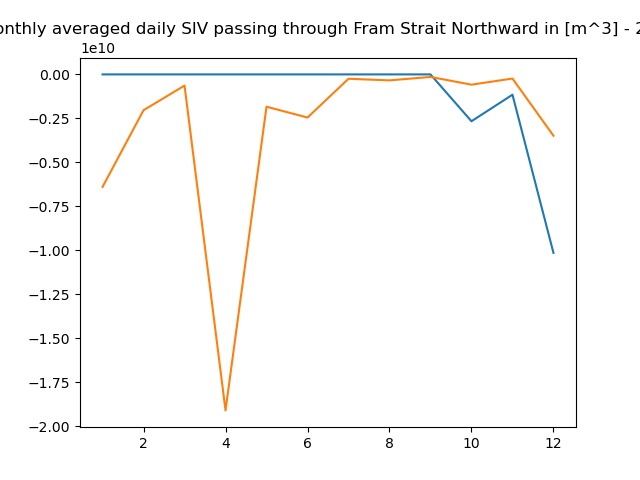
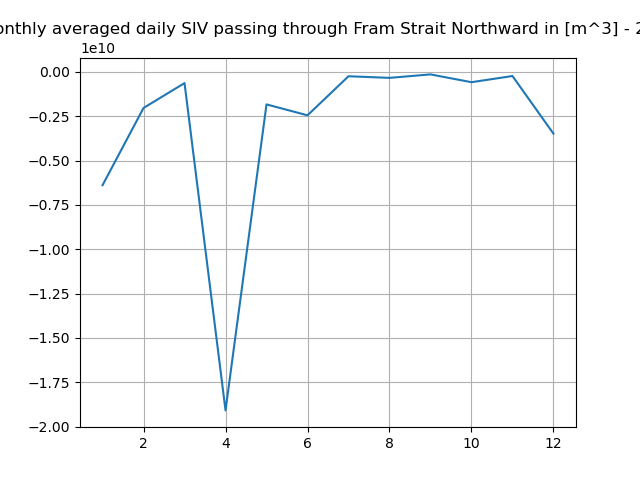
Mass_bilan still in progress

diff --git a/Mass_bilan.py b/Mass_bilan.py
@@ -114,7 +114,7 @@ def extracting_SI_drift(lat_range = [79,80], lon_range = [-40,20]):
                 #dX = dX.dropna(dim = "yc",how = "all")
                 #dY = dY.dropna(dim = "yc",how = "all")
 
-                if year == 2011:
+                if year == 2010:
                     if month == 1:
                         if day == 1:
                             lat = ds['lat'].where((ds.lon > lon_min) & (ds.lon < lon_max) & (ds.lat  > lat_min) & (ds.lat < lat_max), drop = True)
@@ -152,8 +152,9 @@ def extracting_sit(lat_range = [79,80], lon_range = [-40,20]):
 
 def Fram_strait_mass_bilan(year, month):
     """
-        Return the monthly mean SIV that pass thhrough the Fram strait during the given month
+        Return the monthly mean SIV that pass through the Fram strait during the given month
     """
+    print(year, month)
     month_names = ["jan", "feb", "mar", "april", "may", "june", "july", "aug", "sept", "oct","nov", "dec"]
     useful_date = []
     useful_index = []
@@ -258,4 +259,5 @@ for year in range(2010,2021):
     plt.title(f'monthly averaged daily SIV passing through Fram Strait Northward in [m^3] - {year}')
     plt.grid()
     plt.savefig(f"Plots/Fram_strait/{year}-Mass_bilan_Fram_strait.png")
+    plt.clf()
 
